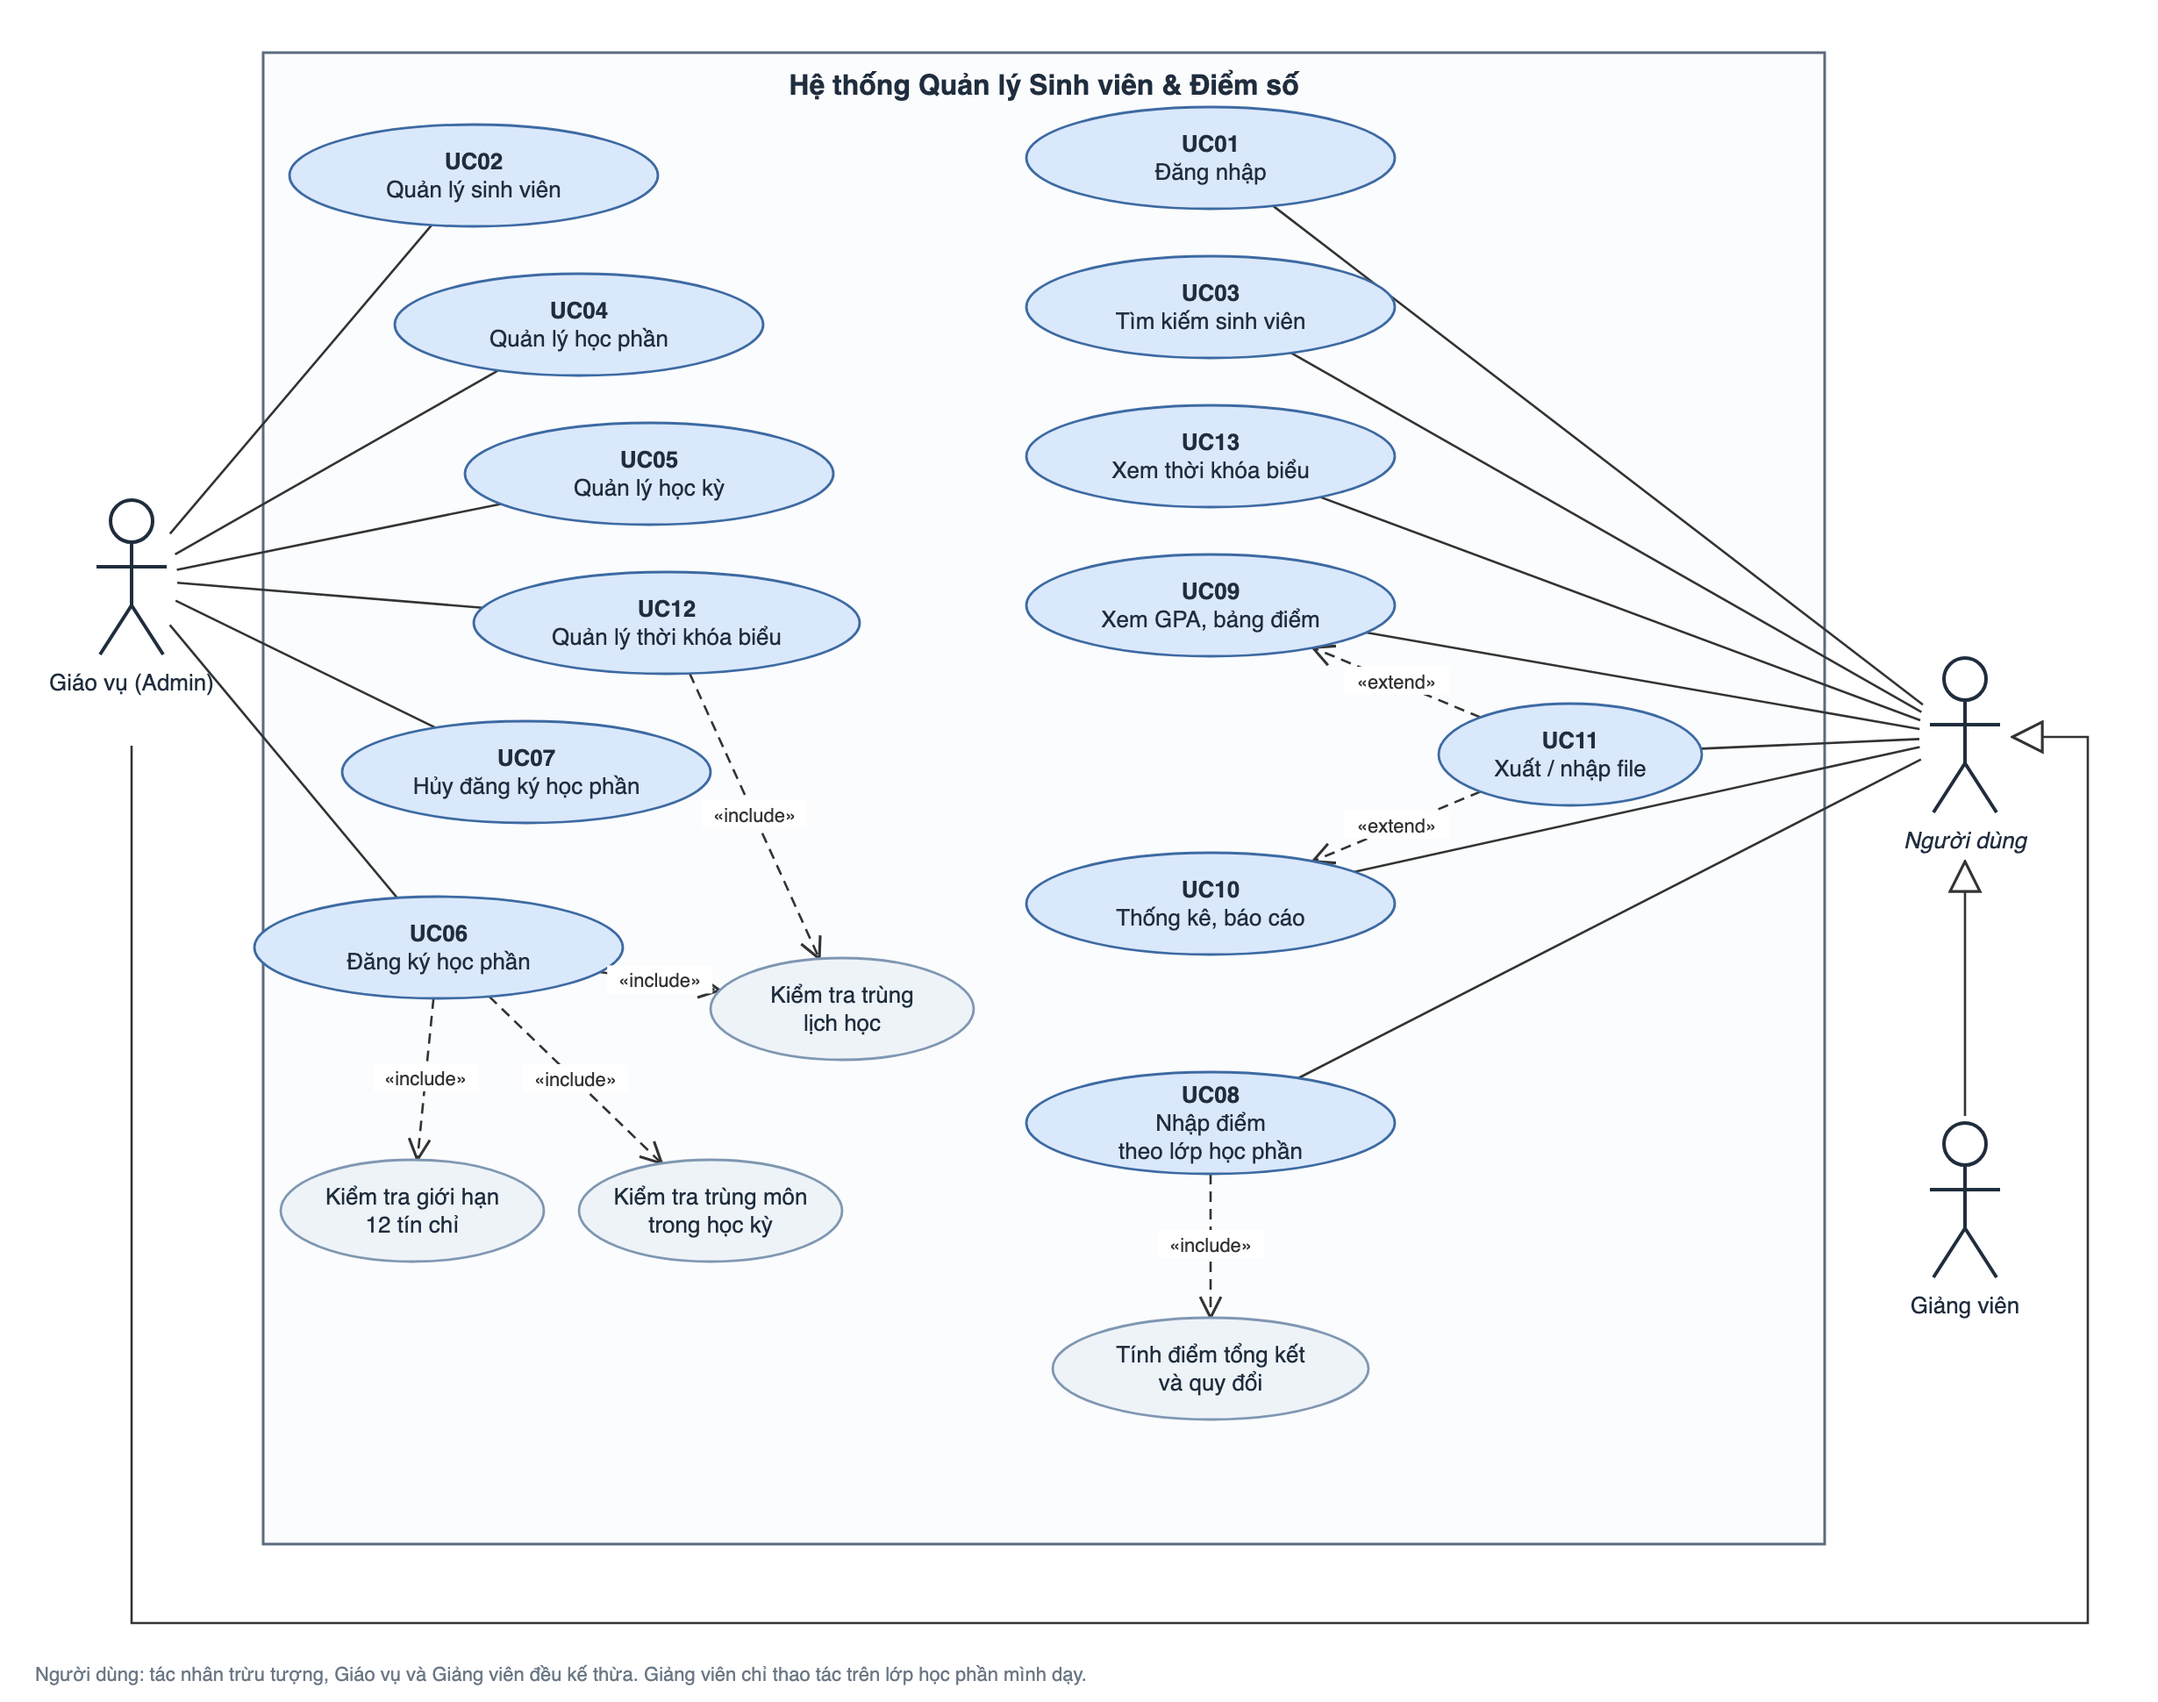
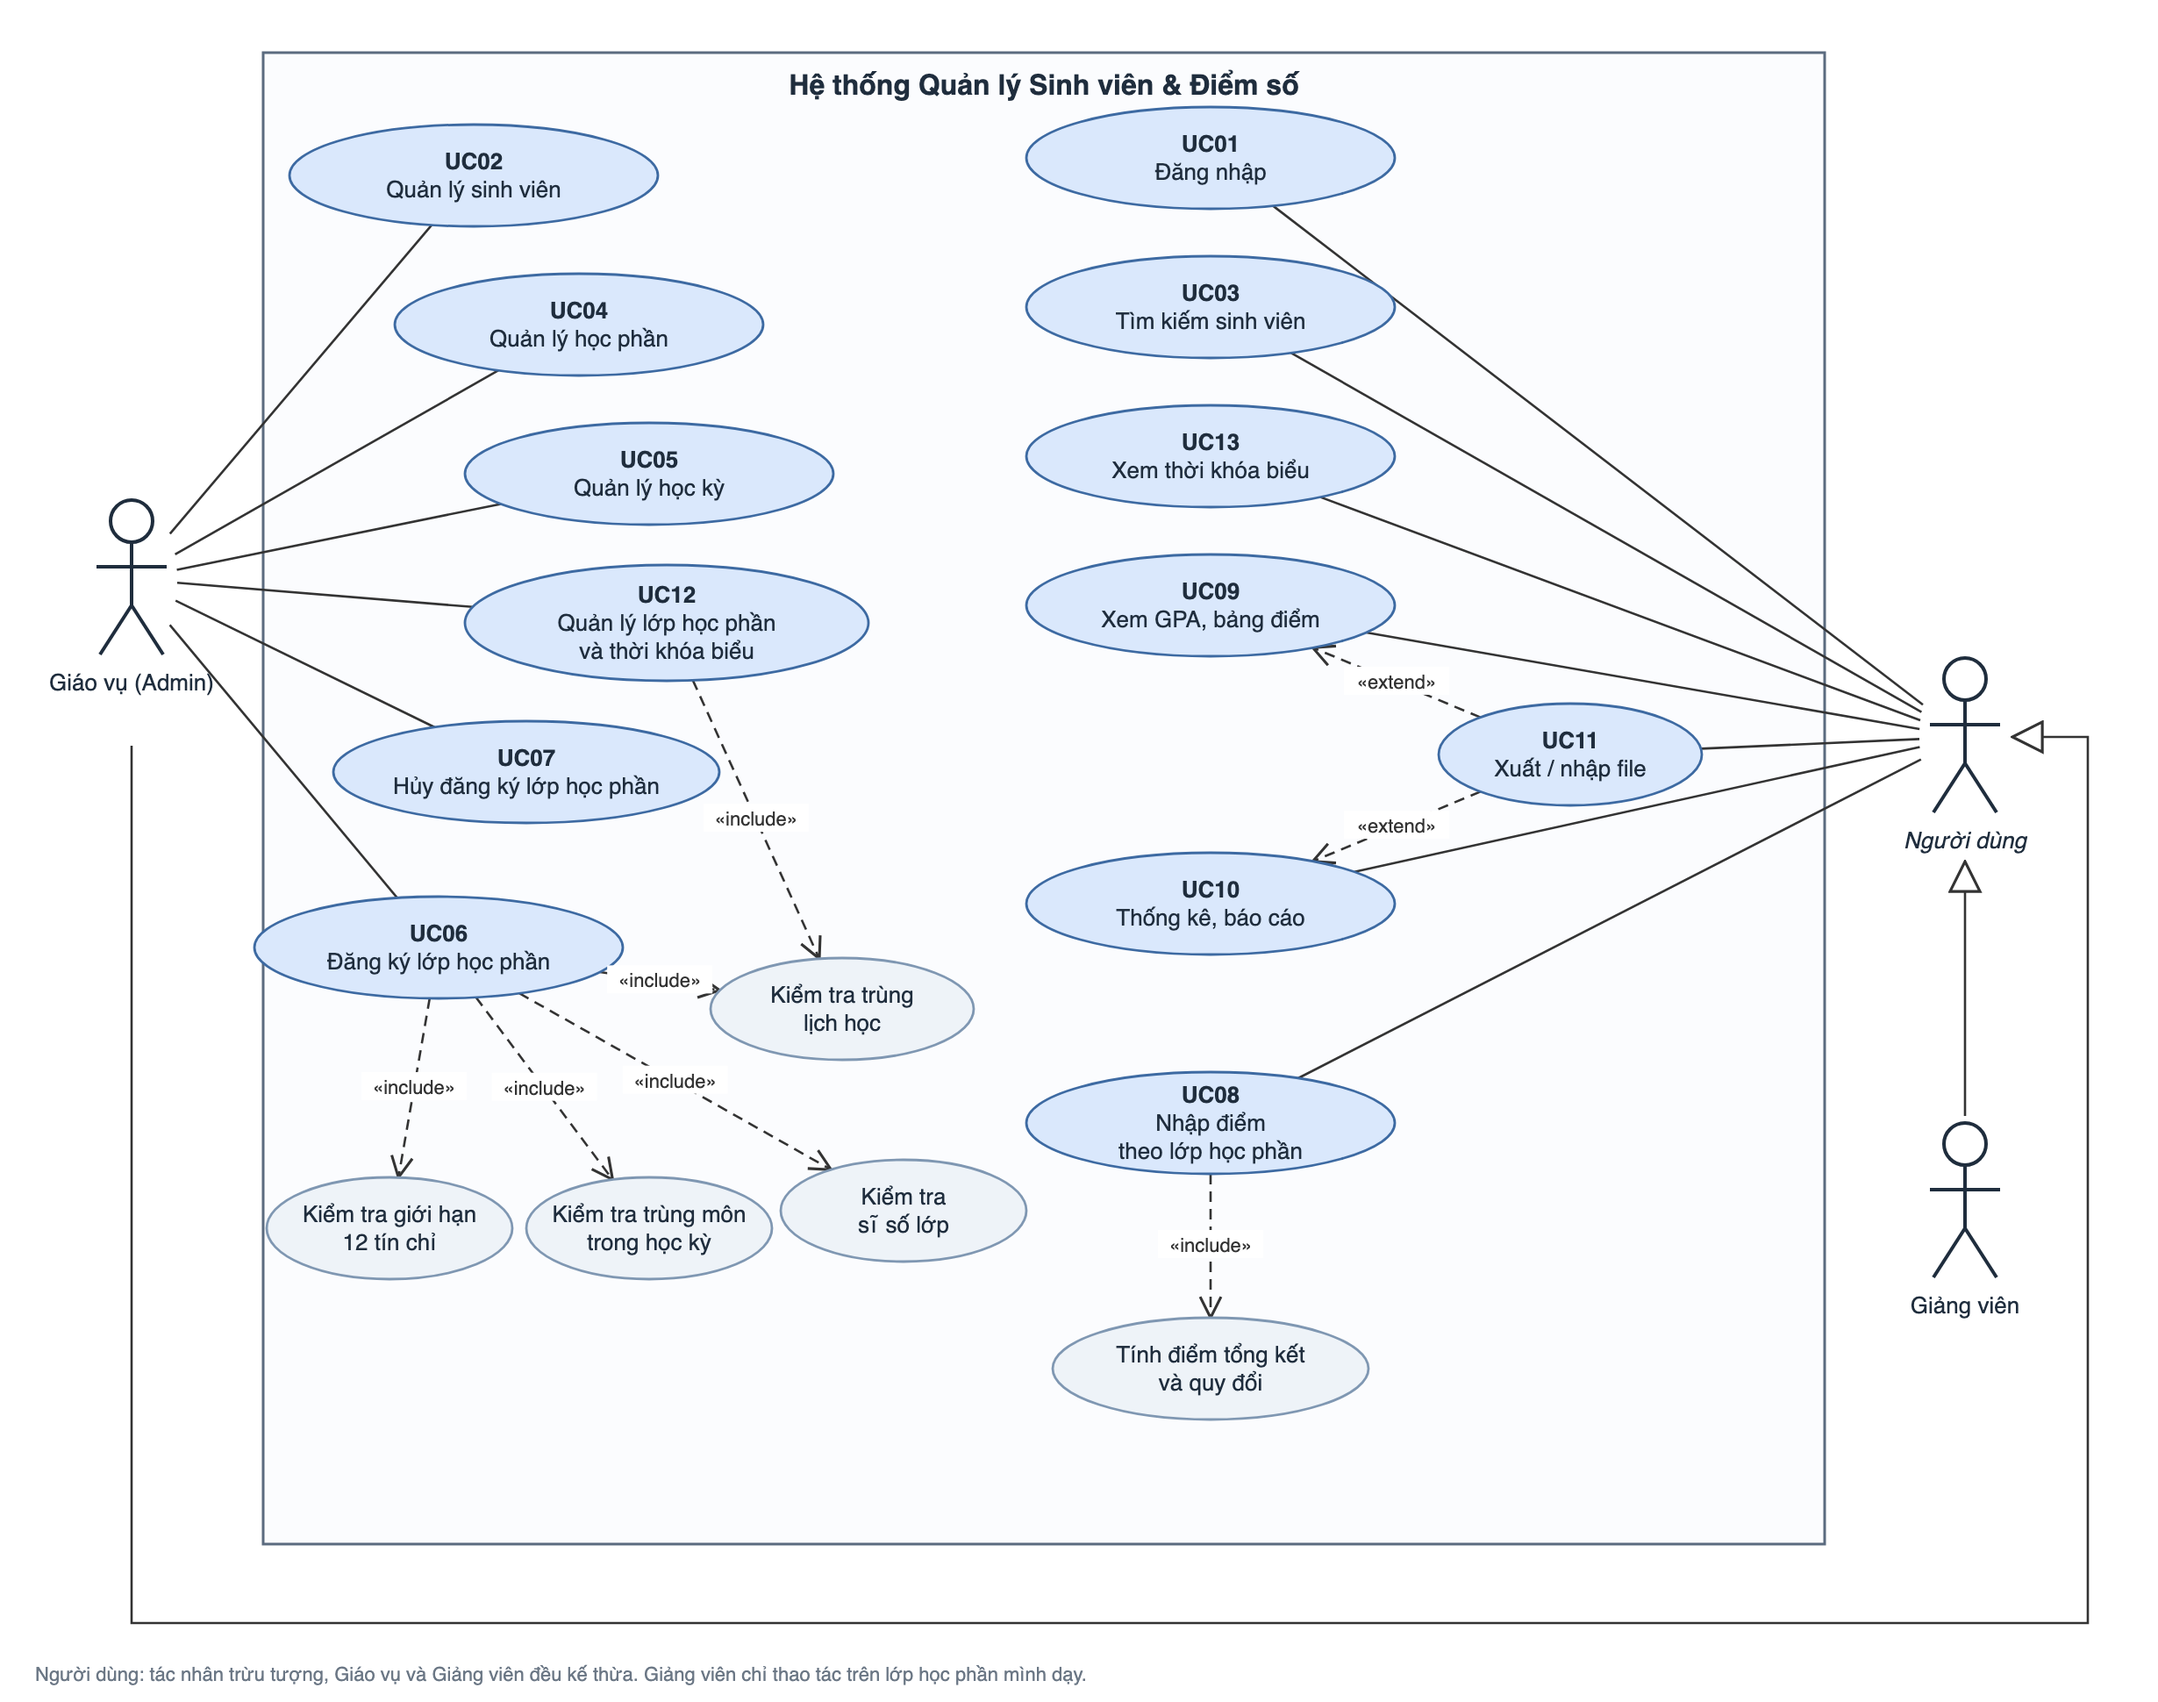
docs(#1): cập nhật use case theo mô hình lớp học phần, thêm kiểm tra sĩ số lớp

diff --git a/docs/yeu-cau.md b/docs/yeu-cau.md
@@ -193,17 +193,18 @@ Trên sơ đồ, *Người dùng* là tác nhân trừu tượng. Giáo vụ và
 | UC03 | Tìm kiếm sinh viên | Giáo vụ, Giảng viên | #8 |
 | UC04 | Quản lý học phần | Giáo vụ | #9 |
 | UC05 | Quản lý học kỳ | Giáo vụ | #9 |
-| UC06 | Đăng ký học phần | Giáo vụ | #11, #12 |
-| UC07 | Hủy đăng ký học phần | Giáo vụ | #11, #12 |
+| UC06 | Đăng ký lớp học phần | Giáo vụ | #11, #12 |
+| UC07 | Hủy đăng ký lớp học phần | Giáo vụ | #11, #12 |
 | UC08 | Nhập điểm theo lớp học phần | Giáo vụ, Giảng viên | #14 |
 | UC09 | Xem GPA và bảng điểm cá nhân | Giáo vụ, Giảng viên | #13, #15 |
 | UC10 | Thống kê, báo cáo | Giáo vụ, Giảng viên | #16 |
 | UC11 | Xuất / nhập file | Giáo vụ, Giảng viên | #17 |
-| UC12 | Quản lý thời khóa biểu lớp học phần | Giáo vụ | #9 |
+| UC12 | Quản lý lớp học phần và thời khóa biểu (mở lớp, gán giảng viên, sĩ số, buổi học) | Giáo vụ | #9 |
 | UC13 | Xem thời khóa biểu | Giáo vụ, Giảng viên | #12 |
 
 Quan hệ giữa các use case:
-- UC06 *include* "Kiểm tra giới hạn 12 tín chỉ", "Kiểm tra trùng môn" và "Kiểm tra trùng lịch học".
+- UC06 *include* "Kiểm tra giới hạn 12 tín chỉ" (BR-04), "Kiểm tra trùng môn" (BR-05), "Kiểm tra trùng lịch học" (BR-22) và "Kiểm tra sĩ số lớp" (BR-25).
+- Điều kiện trước của UC06 và UC07: học kỳ đang mở đăng ký (BR-26); với UC06, sinh viên ở trạng thái *Đang học* (BR-07).
 - UC12 *include* "Kiểm tra trùng lịch học" (BR-23).
 - UC08 *include* "Tính điểm tổng kết và quy đổi".
 - UC11 *extend* UC09 (xuất bảng điểm cá nhân) và UC10 (xuất báo cáo).
